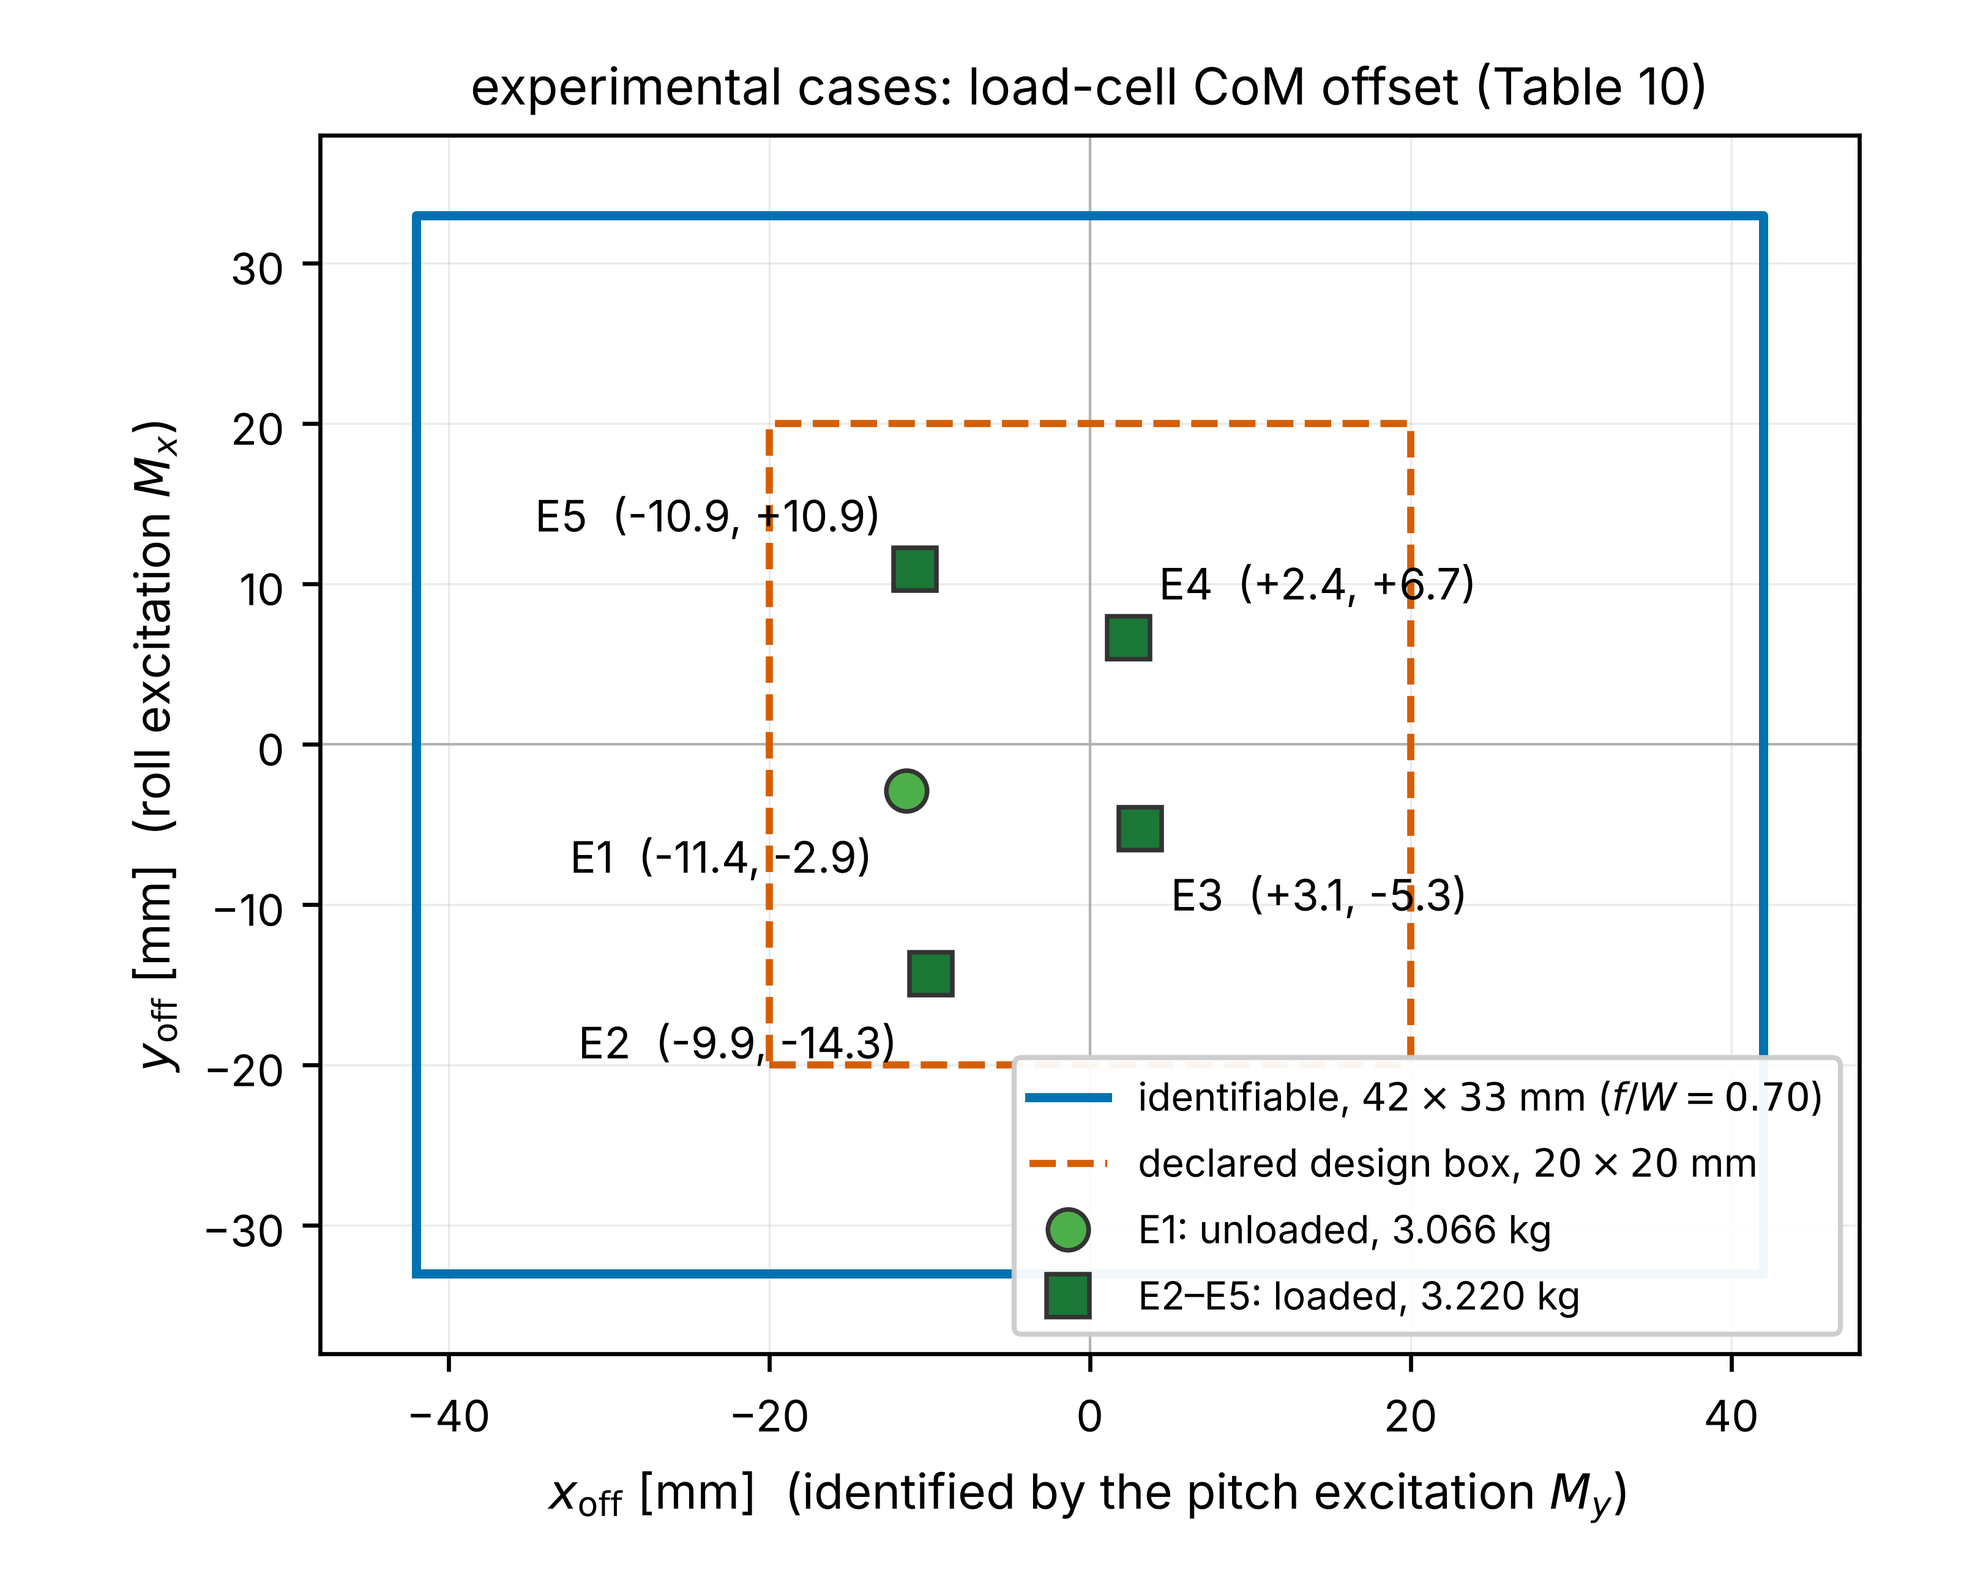
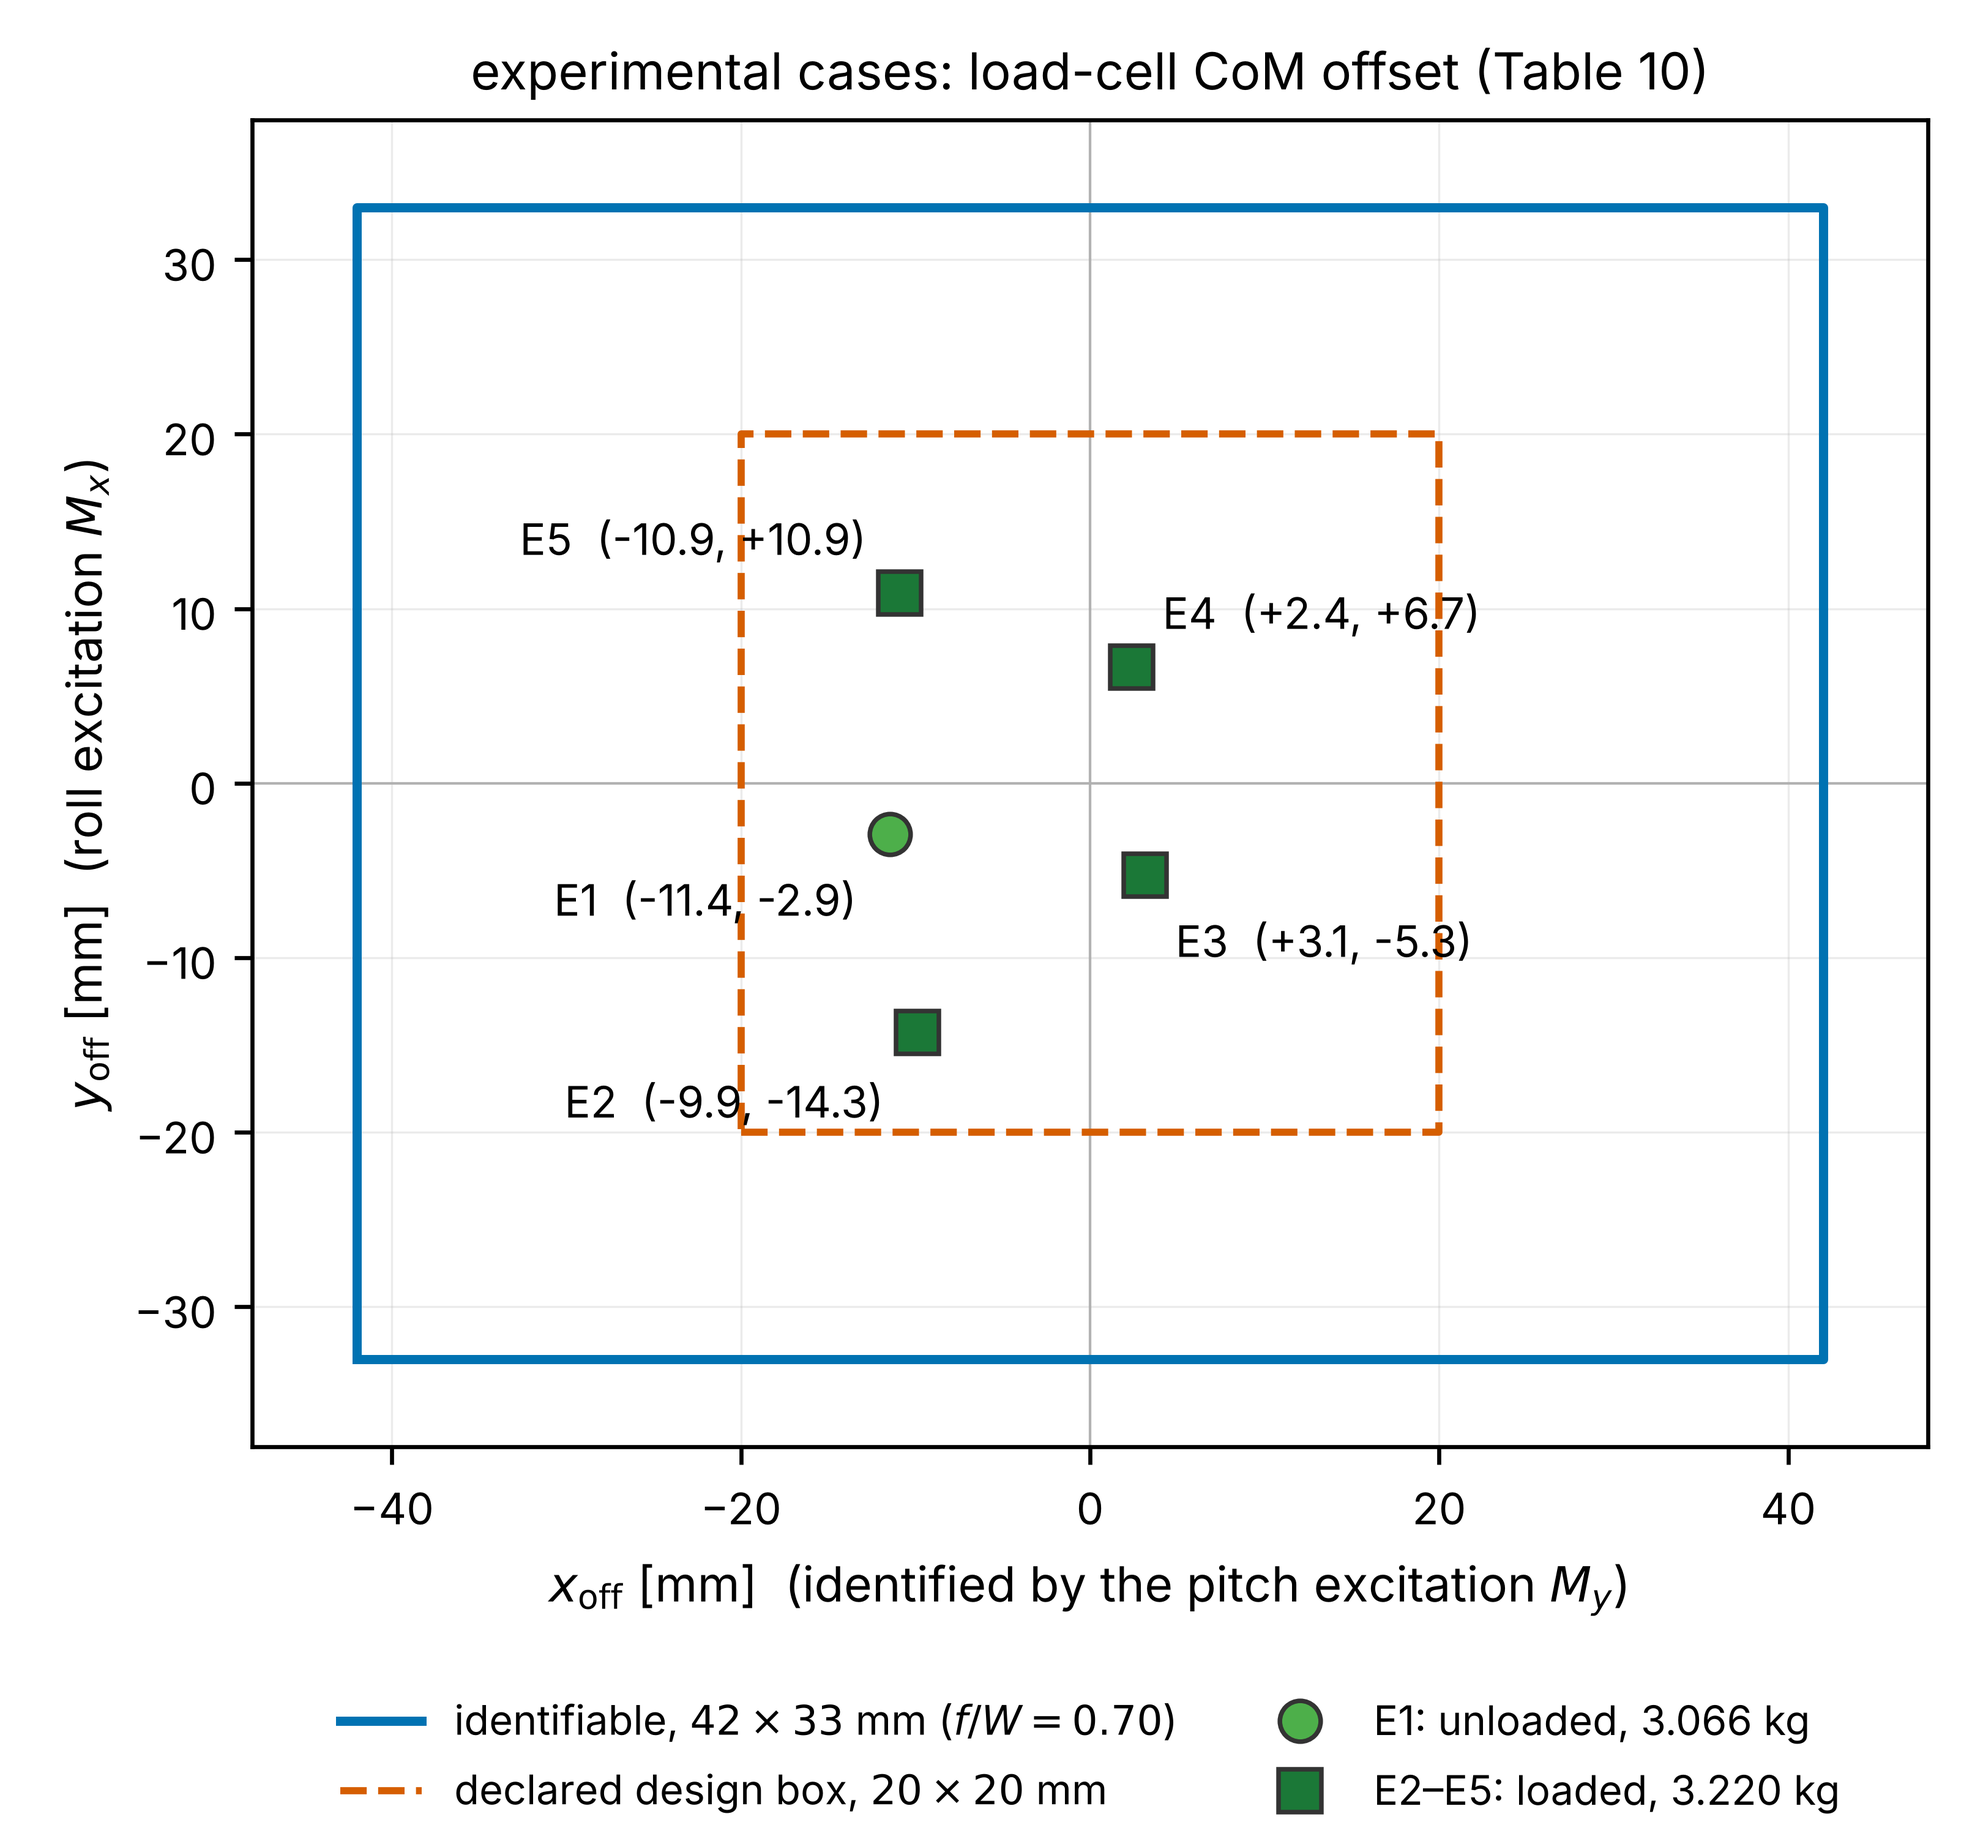
Legends below the axes on the case-map and take-off figures
Claude-Session: https://claude.ai/code/session_01BM6bcsm1ZtLtgegEeuFDVS

diff --git a/analysis/freeflight_timeseries_figure.py b/analysis/freeflight_timeseries_figure.py
@@ -55,7 +55,7 @@ def main():
     ctrl = sys.argv[2] if len(sys.argv) > 2 else 'hgdo'
     out = sys.argv[3] if len(sys.argv) > 3 else 'docs/exp_takeoff_timeseries.png'
     x, y = fm.OFFSET[case]
-    fig, (A, B) = plt.subplots(1, 2, figsize=(10.0, 3.6))
+    fig, (A, B) = plt.subplots(1, 2, figsize=(10.0, 3.9))
     win = []
     peaks = {}
     for var in ('ff_pivot_based', 'ff_pivot_free', 'wo_ff'):
@@ -86,13 +86,16 @@ def main():
     B.set_ylabel(r'horizontal drift $\|p_{xy}(t) - p_{xy}(t_{\mathrm{lo}})\|$ [m]', fontsize=9.5)
     A.set_title(f'(a) tilt — E{int(case)} ({x:+.1f}, {y:+.1f}) mm, {ctrl.upper()}, 3 repeats each', fontsize=10)
     B.set_title('(b) horizontal drift', fontsize=10)
-    A.legend(fontsize=8, loc='upper right', framealpha=0.95)
+    hdl, lab = A.get_legend_handles_labels()
+    order = [lab.index(STYLE[v]['label']) for v in ('wo_ff', 'ff_pivot_free', 'ff_pivot_based')]
+    fig.legend([hdl[i] for i in order], [lab[i] for i in order], loc='lower center', ncol=3,
+               fontsize=9, frameon=False, bbox_to_anchor=(0.5, 0.0))
     u, c = peaks['wo_ff'], peaks['ff_pivot_free']
     A.text(0.02, 0.97, f'median peak: {u[0]:.1f}° → {c[0]:.1f}°', transform=A.transAxes, fontsize=9,
            va='top', bbox=dict(fc='white', ec='0.8', lw=0.6, pad=3))
     B.text(0.02, 0.97, f'median peak: {u[1]:.2f} m → {c[1]:.2f} m', transform=B.transAxes, fontsize=9,
            va='top', bbox=dict(fc='white', ec='0.8', lw=0.6, pad=3))
-    fig.tight_layout()
+    fig.tight_layout(rect=[0, 0.08, 1, 1])
     fig.savefig(out, dpi=600)
     print('written', out)
 

diff --git a/analysis/exp_case_map_figure.py b/analysis/exp_case_map_figure.py
@@ -28,7 +28,7 @@ NUDGE = {'01': (-2.2, -2.6), '02': (-2.2, -2.8), '03': (2.0, -2.6), '04': (2.0, 
 
 def main():
     out = sys.argv[1] if len(sys.argv) > 1 else 'docs/exp_case_offsets.png'
-    fig, ax = plt.subplots(figsize=(5.4, 4.3))
+    fig, ax = plt.subplots(figsize=(5.4, 5.0))
 
     def box(bx, by, **kw):
         ax.plot([-bx, bx, bx, -bx, -bx], [-by, -by, by, by, -by], **kw)
@@ -56,7 +56,7 @@ def main():
     ax.set_xlabel(r'$x_{\mathrm{off}}$ [mm]  (identified by the pitch excitation $M_y$)', fontsize=9.5)
     ax.set_ylabel(r'$y_{\mathrm{off}}$ [mm]  (roll excitation $M_x$)', fontsize=9.5)
     ax.set_title('experimental cases: load-cell CoM offset (Table 10)', fontsize=10)
-    ax.legend(fontsize=7.6, loc='lower right', framealpha=0.95)
+    ax.legend(fontsize=8, loc='upper center', bbox_to_anchor=(0.5, -0.16), ncol=2, frameon=False)
     ax.grid(alpha=0.25, lw=0.4)
     ax.tick_params(labelsize=8.5)
     fig.tight_layout()
